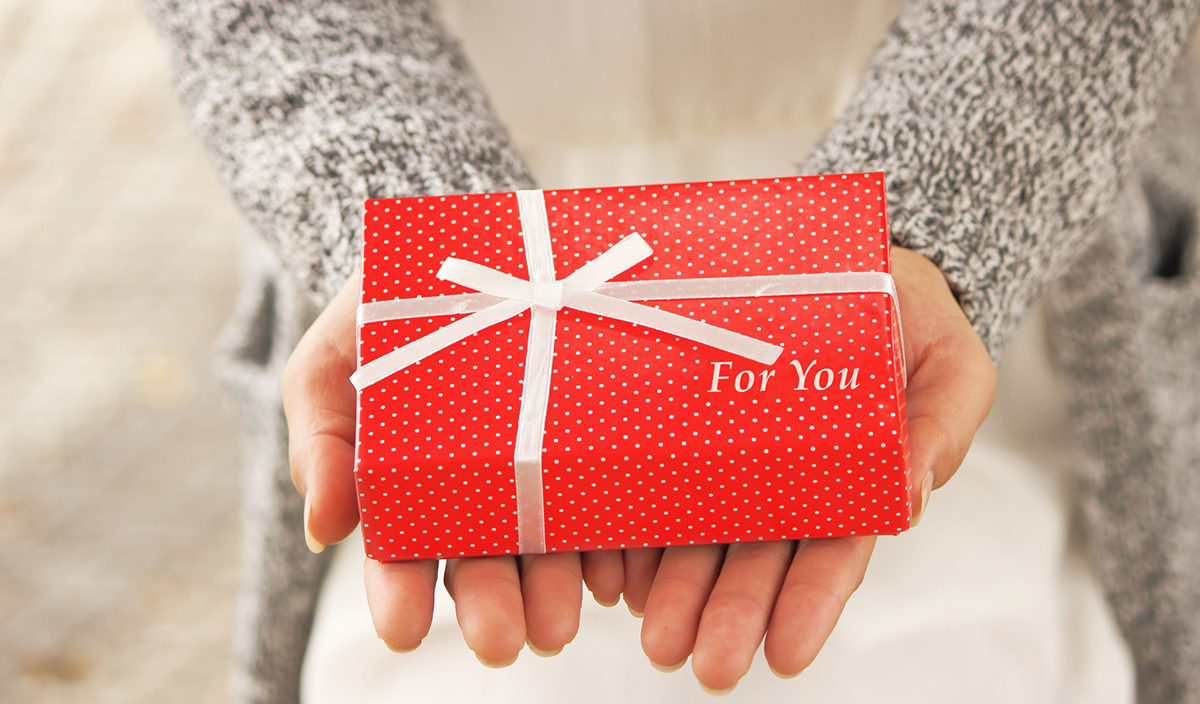
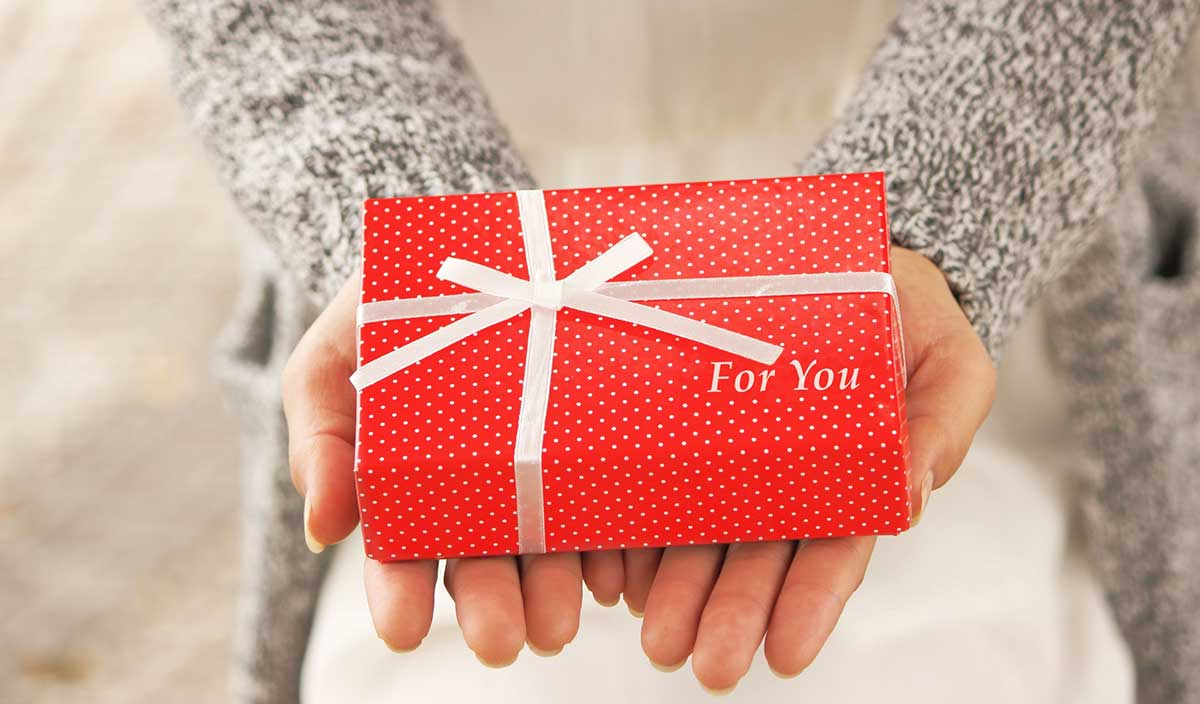
change png to jpg cause iamge size

diff --git a/happy_birthday_jieun_2018.html b/happy_birthday_jieun_2018.html
@@ -29,11 +29,11 @@ sitemap: false
 <div class="preloader"></div>
 <section id="hero" class="section-hero">
     <div class="owl-carousel owl-full-width owl-theme">
-        <div class="item"><img src="img/happy_birthday_jieun_2018/placeholders/main2.png" alt="" class="img-as-bg"></div>
-        <div class="item"><img src="img/happy_birthday_jieun_2018/placeholders/main1.png" alt="" class="img-as-bg"></div>
-        <div class="item"><img src="img/happy_birthday_jieun_2018/placeholders/main3.png" alt="" class="img-as-bg"></div>
-        <div class="item"><img src="img/happy_birthday_jieun_2018/placeholders/main5.png" alt="" class="img-as-bg"></div>
-        <div class="item"><img src="img/happy_birthday_jieun_2018/placeholders/main4.png" alt="" class="img-as-bg"></div>
+        <div class="item"><img src="img/happy_birthday_jieun_2018/placeholders/main2.jpg" alt="" class="img-as-bg"></div>
+        <div class="item"><img src="img/happy_birthday_jieun_2018/placeholders/main1.jpg" alt="" class="img-as-bg"></div>
+        <div class="item"><img src="img/happy_birthday_jieun_2018/placeholders/main3.jpg" alt="" class="img-as-bg"></div>
+        <div class="item"><img src="img/happy_birthday_jieun_2018/placeholders/main5.jpg" alt="" class="img-as-bg"></div>
+        <div class="item"><img src="img/happy_birthday_jieun_2018/placeholders/main4.jpg" alt="" class="img-as-bg"></div>
     </div>
     <div class="announcement-wrapper">
         <div class="announcement animation-chain" data-animation="fadeInUp">
@@ -87,7 +87,7 @@ sitemap: false
     <div class="bride-and-groom flex-responsive">
         <div class="groom">
             <div class="profile-pic animation-chain" data-animation="fadeInUp">
-                <img src="img/happy_birthday_jieun_2018/placeholders/wonkyun.png" alt="">
+                <img src="img/happy_birthday_jieun_2018/placeholders/wonkyun.jpg" alt="">
             </div>
             <h3>임원균</h3>
             <h4>세상을 즐겁게 살고픈 소신있는 멍뭉이</h4>
@@ -95,7 +95,7 @@ sitemap: false
         </div>
         <div class="bride">
             <div class="profile-pic animation-chain" data-animation="fadeInUp">
-                <img src="img/happy_birthday_jieun_2018/placeholders/jieun1.png" alt="">
+                <img src="img/happy_birthday_jieun_2018/placeholders/jieun1.jpg" alt="">
             </div>
             <h3>김지은</h3>
             <h4>Noisy and Cheerful UX Designer/Adventurer</h4>
@@ -107,12 +107,12 @@ sitemap: false
 <div class="separator">
     <div class="separator-carousel">
         <div class="owl-carousel owl-theme">
-            <a href="img/happy_birthday_jieun_2018/placeholders/main1.png" class="item"><img src="img/happy_birthday_jieun_2018/placeholders/main1.png" alt="" class="img-as-bg"></a>
-            <a href="img/happy_birthday_jieun_2018/placeholders/main2.png" class="item"><img src="img/happy_birthday_jieun_2018/placeholders/main2.png" alt="" class="img-as-bg"></a>
-            <a href="img/happy_birthday_jieun_2018/placeholders/main3.png" class="item"><img src="img/happy_birthday_jieun_2018/placeholders/main3.png" alt="" class="img-as-bg"></a>
-            <a href="img/happy_birthday_jieun_2018/placeholders/main4.png" class="item"><img src="img/happy_birthday_jieun_2018/placeholders/main4.png" alt="" class="img-as-bg"></a>
-            <a href="img/happy_birthday_jieun_2018/placeholders/main5.png" class="item"><img src="img/happy_birthday_jieun_2018/placeholders/main5.png" alt="" class="img-as-bg"></a>
-            <a href="img/happy_birthday_jieun_2018/placeholders/first_meet1.png" class="item"><img src="img/happy_birthday_jieun_2018/placeholders/first_meet1.png" alt="" class="img-as-bg"></a>
+            <a href="img/happy_birthday_jieun_2018/placeholders/main1.jpg" class="item"><img src="img/happy_birthday_jieun_2018/placeholders/main1.jpg" alt="" class="img-as-bg"></a>
+            <a href="img/happy_birthday_jieun_2018/placeholders/main2.jpg" class="item"><img src="img/happy_birthday_jieun_2018/placeholders/main2.jpg" alt="" class="img-as-bg"></a>
+            <a href="img/happy_birthday_jieun_2018/placeholders/main3.jpg" class="item"><img src="img/happy_birthday_jieun_2018/placeholders/main3.jpg" alt="" class="img-as-bg"></a>
+            <a href="img/happy_birthday_jieun_2018/placeholders/main4.jpg" class="item"><img src="img/happy_birthday_jieun_2018/placeholders/main4.jpg" alt="" class="img-as-bg"></a>
+            <a href="img/happy_birthday_jieun_2018/placeholders/main5.jpg" class="item"><img src="img/happy_birthday_jieun_2018/placeholders/main5.jpg" alt="" class="img-as-bg"></a>
+            <a href="img/happy_birthday_jieun_2018/placeholders/first_meet1.jpg" class="item"><img src="img/happy_birthday_jieun_2018/placeholders/first_meet1.jpg" alt="" class="img-as-bg"></a>
         </div>
     </div>
 </div>
@@ -123,7 +123,7 @@ sitemap: false
         <li class="flex-responsive">
             <div class="meta">
                 <div class="timeline-thumbnail">
-                    <img class="img-as-bg" src="img/happy_birthday_jieun_2018/placeholders/first_meet1.png" alt="">
+                    <img class="img-as-bg" src="img/happy_birthday_jieun_2018/placeholders/first_meet1.jpg" alt="">
                 </div>
                 <div class="date">16.10.11</div>
             </div>
@@ -137,7 +137,7 @@ sitemap: false
         <li class="flex-responsive">
             <div class="meta">
                 <div class="timeline-thumbnail">
-                    <img class="img-as-bg" src="img/happy_birthday_jieun_2018/placeholders/one_hun1.png" alt="">
+                    <img class="img-as-bg" src="img/happy_birthday_jieun_2018/placeholders/one_hun1.jpg" alt="">
                 </div>
                 <div class="date">17.01.12</div>
             </div>
@@ -151,7 +151,7 @@ sitemap: false
         <li class="flex-responsive">
             <div class="meta">
                 <div class="timeline-thumbnail">
-                    <img class="img-as-bg" src="img/happy_birthday_jieun_2018/placeholders/jeju1.png" alt="">
+                    <img class="img-as-bg" src="img/happy_birthday_jieun_2018/placeholders/jeju1.jpg" alt="">
                 </div>
                 <div class="date">17.01.21</div>
             </div>
@@ -165,7 +165,7 @@ sitemap: false
         <li class="flex-responsive">
             <div class="meta">
                 <div class="timeline-thumbnail">
-                    <img class="img-as-bg" src="img/happy_birthday_jieun_2018/placeholders/everland1.png" alt="">
+                    <img class="img-as-bg" src="img/happy_birthday_jieun_2018/placeholders/everland1.jpg" alt="">
                 </div>
                 <div class="date">17.03.13</div>
             </div>
@@ -179,7 +179,7 @@ sitemap: false
         <li class="flex-responsive">
             <div class="meta">
                 <div class="timeline-thumbnail">
-                    <img class="img-as-bg" src="img/happy_birthday_jieun_2018/placeholders/phochun1.png" alt="">
+                    <img class="img-as-bg" src="img/happy_birthday_jieun_2018/placeholders/phochun1.jpg" alt="">
                 </div>
                 <div class="date">17.05.28</div>
             </div>
@@ -193,7 +193,7 @@ sitemap: false
         <li class="flex-responsive">
             <div class="meta">
                 <div class="timeline-thumbnail">
-                    <img class="img-as-bg" src="img/happy_birthday_jieun_2018/placeholders/flower1.png" alt="">
+                    <img class="img-as-bg" src="img/happy_birthday_jieun_2018/placeholders/flower1.jpg" alt="">
                 </div>
                 <div class="date">17.08.04</div>
             </div>
@@ -211,7 +211,7 @@ sitemap: false
         <li class="flex-responsive">
             <div class="meta">
                 <div class="timeline-thumbnail">
-                    <img class="img-as-bg" src="img/happy_birthday_jieun_2018/placeholders/gan1.png" alt="">
+                    <img class="img-as-bg" src="img/happy_birthday_jieun_2018/placeholders/gan1.jpg" alt="">
                 </div>
                 <div class="date">18.01.02</div>
             </div>
@@ -225,7 +225,7 @@ sitemap: false
         <li class="flex-responsive">
             <div class="meta">
                 <div class="timeline-thumbnail">
-                    <img class="img-as-bg" src="img/happy_birthday_jieun_2018/placeholders/taiwan1.png" alt="">
+                    <img class="img-as-bg" src="img/happy_birthday_jieun_2018/placeholders/taiwan1.jpg" alt="">
                 </div>
                 <div class="date">18.03.22</div>
             </div>
@@ -239,7 +239,7 @@ sitemap: false
     </ul>
 </section>
 
-<!--<div class="separator parallax" data-background-image="img/happy_birthday_jieun_2018/placeholders/main3.png" data-parallax-factor=".8">-->
+<!--<div class="separator parallax" data-background-image="img/happy_birthday_jieun_2018/placeholders/main3.jpg" data-parallax-factor=".8">-->
     <!--<div class="flowers"></div>-->
     <!--<h2 data-after-countdown="We got married on Sep 16, 2016.">Counting Down to Our Big Day</h2>-->
     <!--<div class="decor"><i class="fa fa-heart-o"></i></div>-->
@@ -274,12 +274,12 @@ sitemap: false
     <!--</header>-->
     <!--<div class="gallery-grid animation-chain" data-animation="zoomIn">-->
         <!--<div class="gallery-grid-item bride-groom">-->
-            <!--<img src="img/happy_birthday_jieun_2018/placeholders/1200x800.png" alt="">-->
+            <!--<img src="img/happy_birthday_jieun_2018/placeholders/1200x800.jpg" alt="">-->
             <!--<div class="gallery-hidden">-->
                 <!--<ul class="image-list">-->
-                    <!--<li><img src="img/happy_birthday_jieun_2018/blank.png" data-src="http://placehold.it/1200x800" alt=""></li>-->
-                    <!--<li><img src="img/happy_birthday_jieun_2018/blank.png" data-src="http://placehold.it/1200x800" alt=""></li>-->
-                    <!--<li><img src="img/happy_birthday_jieun_2018/blank.png" data-src="http://placehold.it/1200x800" alt=""></li>-->
+                    <!--<li><img src="img/happy_birthday_jieun_2018/blank.jpg" data-src="http://placehold.it/1200x800" alt=""></li>-->
+                    <!--<li><img src="img/happy_birthday_jieun_2018/blank.jpg" data-src="http://placehold.it/1200x800" alt=""></li>-->
+                    <!--<li><img src="img/happy_birthday_jieun_2018/blank.jpg" data-src="http://placehold.it/1200x800" alt=""></li>-->
                 <!--</ul>-->
                 <!--<ul class="gallery-info">-->
                     <!--<li class="name-cat">-->
@@ -293,7 +293,7 @@ sitemap: false
             <!--</div>-->
         <!--</div>-->
         <!--<div class="gallery-grid-item family">-->
-            <!--<img src="img/happy_birthday_jieun_2018/placeholders/1200x800.png" alt="">-->
+            <!--<img src="img/happy_birthday_jieun_2018/placeholders/1200x800.jpg" alt="">-->
             <!--<div class="gallery-hidden">-->
                 <!--<ul class="video">-->
                     <!--<li><iframe data-src="https://player.vimeo.com/video/24456787" width="640" height="360" webkitallowfullscreen mozallowfullscreen allowfullscreen></iframe></li>-->
@@ -310,7 +310,7 @@ sitemap: false
             <!--</div>-->
         <!--</div>-->
         <!--<div class="gallery-grid-item dinner">-->
-            <!--<img src="img/happy_birthday_jieun_2018/placeholders/1200x800.png" alt="">-->
+            <!--<img src="img/happy_birthday_jieun_2018/placeholders/1200x800.jpg" alt="">-->
             <!--<div class="gallery-hidden">-->
                 <!--<ul class="video">-->
                     <!--<li><iframe width="560" height="315" data-src="http://www.youtube.com/embed/5aOSxep4ni0?rel=0&showinfo=0&autohide=1&modestbranding=1" allowfullscreen></iframe></li>-->
@@ -327,7 +327,7 @@ sitemap: false
             <!--</div>-->
         <!--</div>-->
         <!--<div class="gallery-grid-item party">-->
-            <!--<img src="img/happy_birthday_jieun_2018/placeholders/1200x800.png" alt="">-->
+            <!--<img src="img/happy_birthday_jieun_2018/placeholders/1200x800.jpg" alt="">-->
             <!--<div class="gallery-hidden">-->
                 <!--<ul class="video">-->
                     <!--<li><iframe width="560" height="315" data-src="http://www.youtube.com/embed/5aOSxep4ni0?rel=0&showinfo=0&autohide=1&modestbranding=1" allowfullscreen></iframe></li>-->
@@ -344,12 +344,12 @@ sitemap: false
             <!--</div>-->
         <!--</div>-->
         <!--<div class="gallery-grid-item bride-groom">-->
-            <!--<img src="img/happy_birthday_jieun_2018/placeholders/1200x800.png" alt="">-->
+            <!--<img src="img/happy_birthday_jieun_2018/placeholders/1200x800.jpg" alt="">-->
             <!--<div class="gallery-hidden">-->
                 <!--<ul class="image-list">-->
-                    <!--<li><img src="img/happy_birthday_jieun_2018/blank.png" data-src="http://placehold.it/1200x800" alt=""></li>-->
-                    <!--<li><img src="img/happy_birthday_jieun_2018/blank.png" data-src="http://placehold.it/1200x800" alt=""></li>-->
-                    <!--<li><img src="img/happy_birthday_jieun_2018/blank.png" data-src="http://placehold.it/1200x800" alt=""></li>-->
+                    <!--<li><img src="img/happy_birthday_jieun_2018/blank.jpg" data-src="http://placehold.it/1200x800" alt=""></li>-->
+                    <!--<li><img src="img/happy_birthday_jieun_2018/blank.jpg" data-src="http://placehold.it/1200x800" alt=""></li>-->
+                    <!--<li><img src="img/happy_birthday_jieun_2018/blank.jpg" data-src="http://placehold.it/1200x800" alt=""></li>-->
                 <!--</ul>-->
                 <!--<ul class="gallery-info">-->
                     <!--<li class="name-cat">-->
@@ -363,7 +363,7 @@ sitemap: false
             <!--</div>-->
         <!--</div>-->
         <!--<div class="gallery-grid-item family">-->
-            <!--<img src="img/happy_birthday_jieun_2018/placeholders/1200x800.png" alt="">-->
+            <!--<img src="img/happy_birthday_jieun_2018/placeholders/1200x800.jpg" alt="">-->
             <!--<div class="gallery-hidden">-->
                 <!--<ul class="video">-->
                     <!--<li><iframe data-src="https://player.vimeo.com/video/24456787" width="640" height="360" webkitallowfullscreen mozallowfullscreen allowfullscreen></iframe></li>-->
@@ -380,7 +380,7 @@ sitemap: false
             <!--</div>-->
         <!--</div>-->
         <!--<div class="gallery-grid-item dinner">-->
-            <!--<img src="img/happy_birthday_jieun_2018/placeholders/1200x800.png" alt="">-->
+            <!--<img src="img/happy_birthday_jieun_2018/placeholders/1200x800.jpg" alt="">-->
             <!--<div class="gallery-hidden">-->
                 <!--<ul class="video">-->
                     <!--<li><iframe width="560" height="315" data-src="http://www.youtube.com/embed/5aOSxep4ni0?rel=0&showinfo=0&autohide=1&modestbranding=1" allowfullscreen></iframe></li>-->
@@ -397,12 +397,12 @@ sitemap: false
             <!--</div>-->
         <!--</div>-->
         <!--<div class="gallery-grid-item party">-->
-            <!--<img src="img/happy_birthday_jieun_2018/placeholders/1200x800.png" alt="">-->
+            <!--<img src="img/happy_birthday_jieun_2018/placeholders/1200x800.jpg" alt="">-->
             <!--<div class="gallery-hidden">-->
                 <!--<ul class="image-list">-->
-                    <!--<li><img src="img/happy_birthday_jieun_2018/blank.png" data-src="http://placehold.it/1200x800" alt=""></li>-->
-                    <!--<li><img src="img/happy_birthday_jieun_2018/blank.png" data-src="http://placehold.it/1200x800" alt=""></li>-->
-                    <!--<li><img src="img/happy_birthday_jieun_2018/blank.png" data-src="http://placehold.it/1200x800" alt=""></li>-->
+                    <!--<li><img src="img/happy_birthday_jieun_2018/blank.jpg" data-src="http://placehold.it/1200x800" alt=""></li>-->
+                    <!--<li><img src="img/happy_birthday_jieun_2018/blank.jpg" data-src="http://placehold.it/1200x800" alt=""></li>-->
+                    <!--<li><img src="img/happy_birthday_jieun_2018/blank.jpg" data-src="http://placehold.it/1200x800" alt=""></li>-->
                 <!--</ul>-->
                 <!--<ul class="gallery-info">-->
                     <!--<li class="name-cat">-->
@@ -416,12 +416,12 @@ sitemap: false
             <!--</div>-->
         <!--</div>-->
         <!--<div class="gallery-grid-item bride-groom">-->
-            <!--<img src="img/happy_birthday_jieun_2018/placeholders/1200x800.png" alt="">-->
+            <!--<img src="img/happy_birthday_jieun_2018/placeholders/1200x800.jpg" alt="">-->
             <!--<div class="gallery-hidden">-->
                 <!--<ul class="image-list">-->
-                    <!--<li><img src="img/happy_birthday_jieun_2018/blank.png" data-src="http://placehold.it/1200x800" alt=""></li>-->
-                    <!--<li><img src="img/happy_birthday_jieun_2018/blank.png" data-src="http://placehold.it/1200x800" alt=""></li>-->
-                    <!--<li><img src="img/happy_birthday_jieun_2018/blank.png" data-src="http://placehold.it/1200x800" alt=""></li>-->
+                    <!--<li><img src="img/happy_birthday_jieun_2018/blank.jpg" data-src="http://placehold.it/1200x800" alt=""></li>-->
+                    <!--<li><img src="img/happy_birthday_jieun_2018/blank.jpg" data-src="http://placehold.it/1200x800" alt=""></li>-->
+                    <!--<li><img src="img/happy_birthday_jieun_2018/blank.jpg" data-src="http://placehold.it/1200x800" alt=""></li>-->
                 <!--</ul>-->
                 <!--<ul class="gallery-info">-->
                     <!--<li class="name-cat">-->
@@ -479,7 +479,7 @@ sitemap: false
             </div>
         </li>
         <li class="flex-responsive">
-            <div class="event-thumbnail"><img class="img-as-bg" src="img/happy_birthday_jieun_2018/placeholders/han1.png" alt=""></div>
+            <div class="event-thumbnail"><img class="img-as-bg" src="img/happy_birthday_jieun_2018/placeholders/han1.jpg" alt=""></div>
             <div class="event-details animation-chain" data-animation="fadeInUp">
                 <h3>같이 산책해요</h3>
                 <ul class="event-info">
@@ -499,7 +499,7 @@ sitemap: false
 </section>
 
 <footer>
-    <!--<div class="footer-bg parallax" data-background-image="img/happy_birthday_jieun_2018/placeholders/main1.png" data-parallax-factor=".8"></div>-->
+    <!--<div class="footer-bg parallax" data-background-image="img/happy_birthday_jieun_2018/placeholders/main1.jpg" data-parallax-factor=".8"></div>-->
     <div class="heart">
         <svg viewBox="0 0 38 35">
             <use class="shape-heart" xlink:href="img/happy_birthday_jieun_2018/heart.svg#shape-heart"></use>
